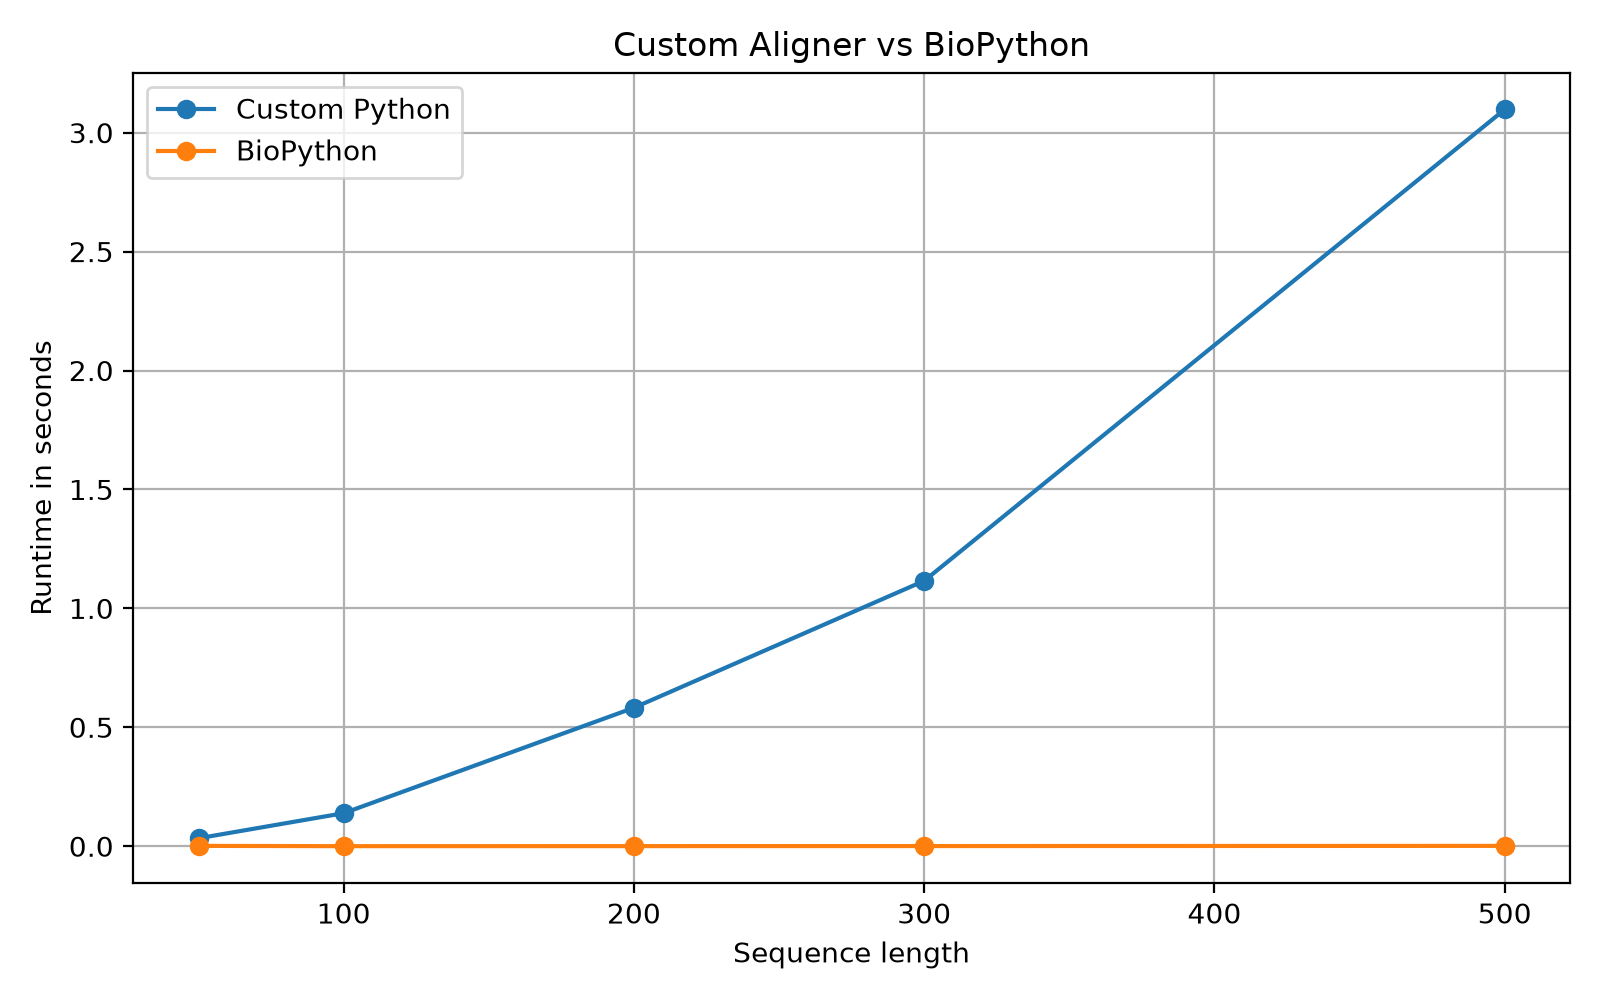
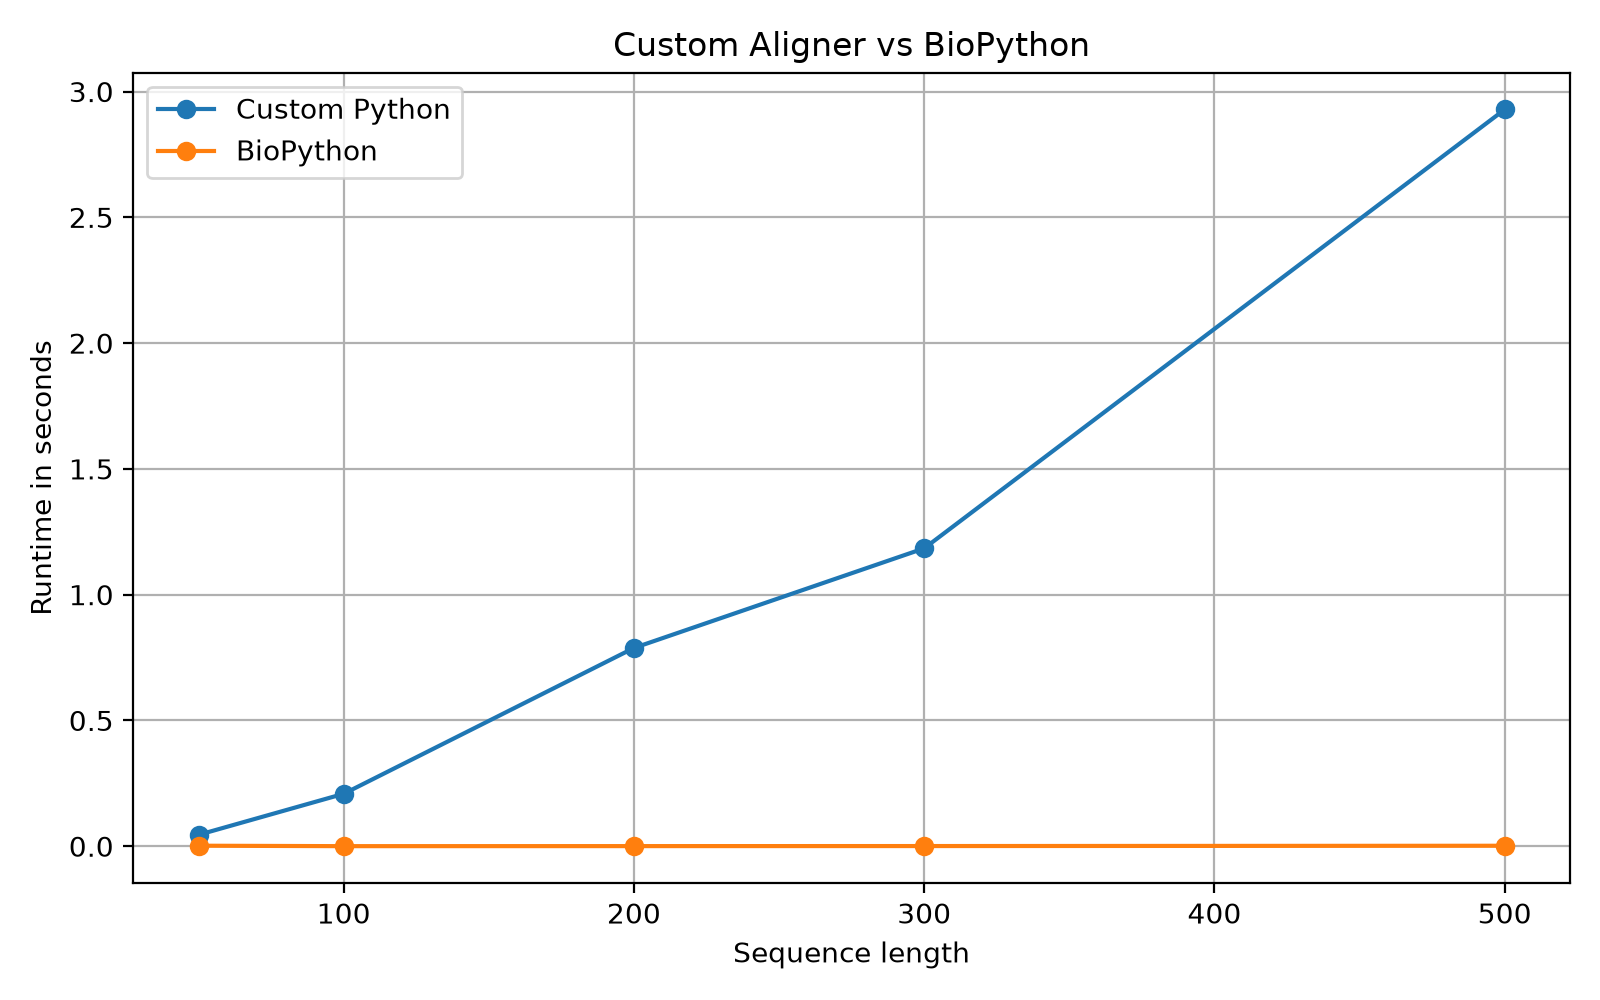
Update example script

diff --git a/run_example.py b/run_example.py
@@ -2,18 +2,18 @@ import sys
 from pathlib import Path
 
 try:
-    import matplotlib.pyplot as plt  # type: ignore[import-untyped]
-except (ModuleNotFoundError, ImportError):  # pragma: no cover
+    import matplotlib.pyplot as plt  
+except (ModuleNotFoundError, ImportError):  
     plt = None
 
 try:
-    from Bio.Align import substitution_matrices  # type: ignore[import-untyped]
-except (ModuleNotFoundError, ImportError):  # pragma: no cover
+    from Bio.Align import substitution_matrices  
+except (ModuleNotFoundError, ImportError):  
     substitution_matrices = None
 
 sys.path.insert(0, str(Path(__file__).parent / "src"))
 
-from alignment_tool import align_affine  # pyright: ignore[reportMissingImports]
+from alignment_tool import align_affine  
 
 
 def ensure_results_dir():
